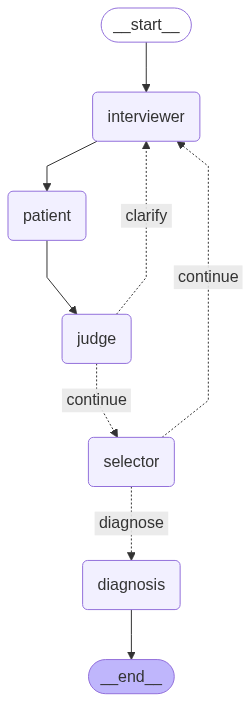
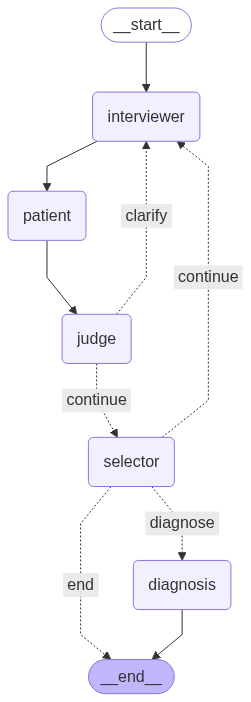
Escalation process in UI in red flag case

diff --git a/streamlit_app.py b/streamlit_app.py
@@ -213,6 +213,9 @@ if "answer_input" not in st.session_state:
 if "clear_answer" not in st.session_state:
     st.session_state.clear_answer = False
 
+if "red_flag_detected" not in st.session_state:
+    st.session_state.red_flag_detected = False
+
 # App state: "asking_question" or "showing_feedback"
 if "app_state" not in st.session_state:
     st.session_state.app_state = "asking_question"
@@ -258,6 +261,7 @@ with st.sidebar:
         st.session_state.finished = False
         st.session_state.diagnosis_result = None
         st.session_state.latest_judge_result = None  # Clear judge results
+        st.session_state.red_flag_detected = False  # Reset red flag state
         st.session_state.thread_id = make_thread_id()
         st.session_state["answer_input"] = ""
         st.session_state["clear_answer"] = True
@@ -270,9 +274,18 @@ if st.session_state.loader is None or st.session_state.state is None:
 state: InterviewState = st.session_state.state
 
 if st.session_state.finished:
-    st.success("Interview completed.")
+    if st.session_state.red_flag_detected:
+        st.error("🚨 **CRISIS ALERT** 🚨")
+        st.markdown("It looks like you may be going through a very difficult time.")
+        st.markdown("If you feel you are in immediate danger, please call 911 or your local emergency services:")
+        st.markdown("- **Emergency Services**: 911")
+        st.markdown("- **National Suicide Prevention Lifeline**: 988")        
+        st.markdown("---")
+        st.info("The interview has been stopped for your safety. Please seek immediate professional help.")
+    else:
+        st.success("Interview completed.")
 
-    if st.session_state.diagnosis_result is not None:
+    if st.session_state.diagnosis_result is not None and not st.session_state.red_flag_detected:
         st.subheader("Diagnosis")
         diag_data = st.session_state.diagnosis_result.model_dump()
         total = len(diag_data)
@@ -293,7 +306,7 @@ if st.session_state.finished:
             st.markdown("- **Reasoning**:")
             st.write(group_result.get("reasoning", ""))
             st.markdown("---")
-
+    
     csv_data = csv_string_from_log(state.conversation_log)
     st.download_button(
         "Download conversation log (CSV)",
@@ -405,6 +418,10 @@ if answer:
     
     state.messages = list(state.messages) + judge_result["messages"]
     state.judge_results = list(state.judge_results) + judge_result["judge_results"]
+
+    # Check if the latest judge result is a red flag
+    if judge_result["judge_results"] and judge_result["judge_results"][0].lower() == "red_flag":
+        st.session_state.red_flag_detected = True
 
     # Run selector to determine next step (this sets ready_for_diagnosis if needed)
     if should_clarify(state) == "continue":
